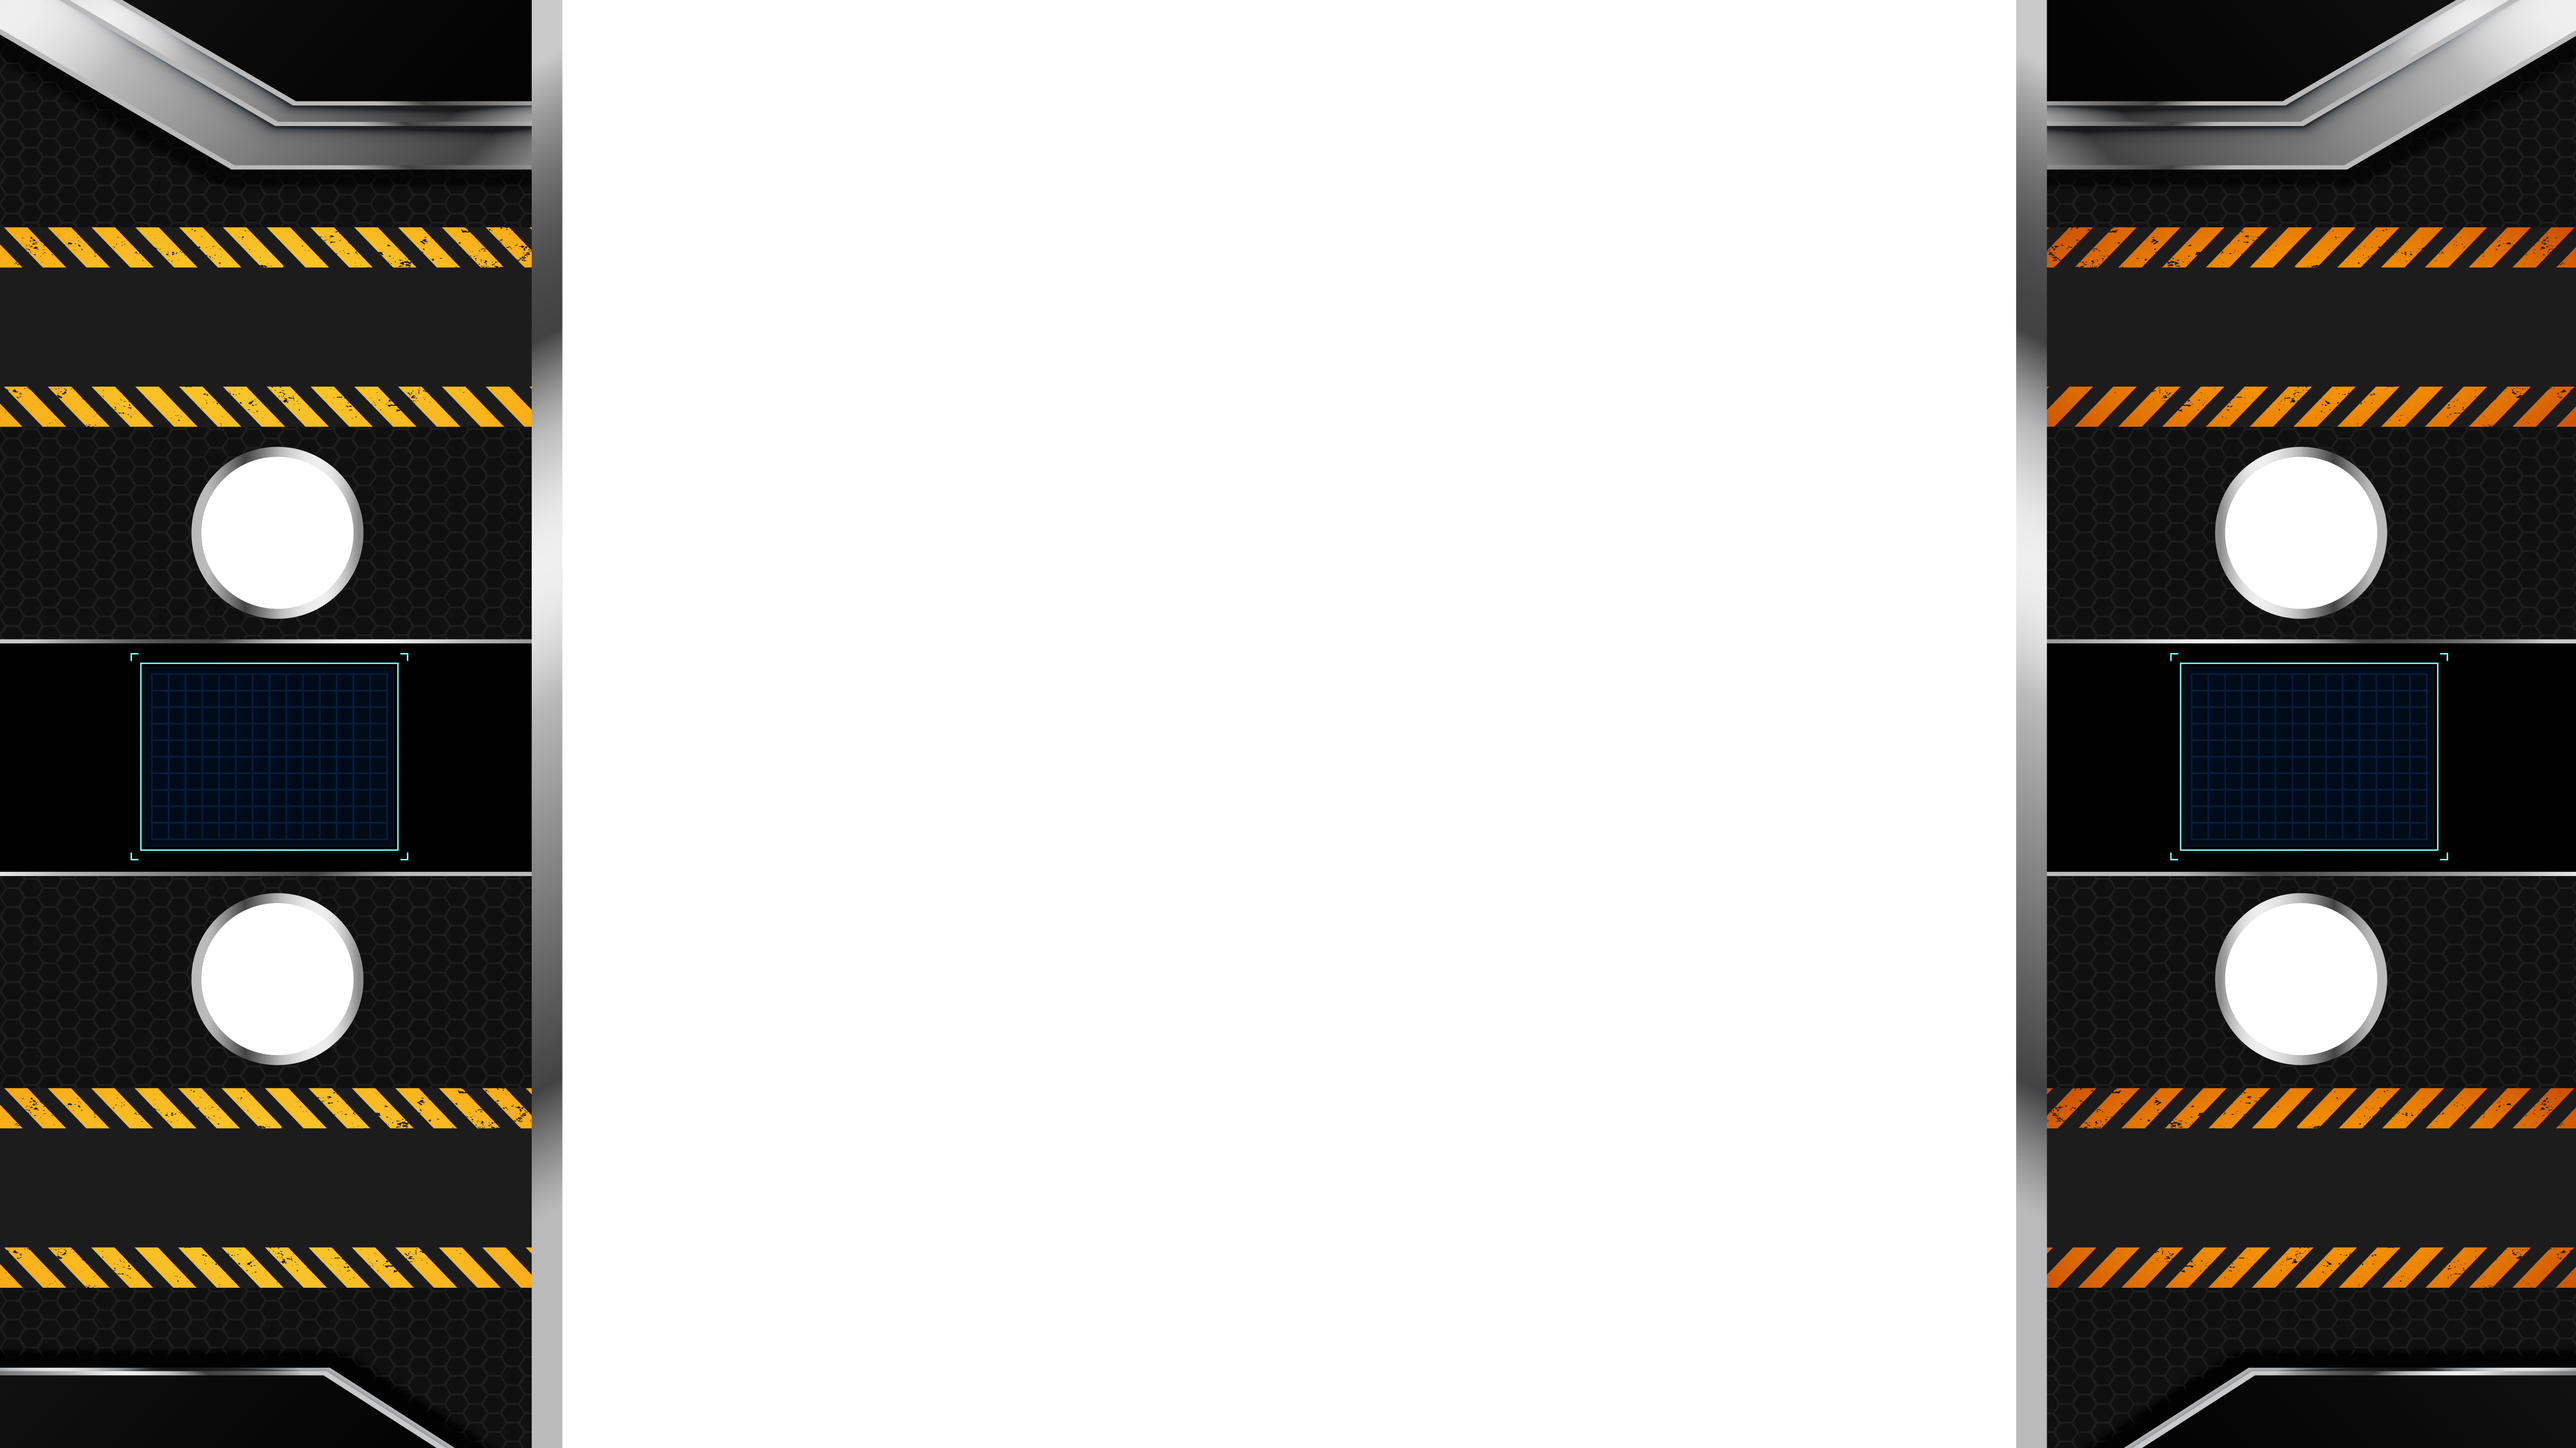
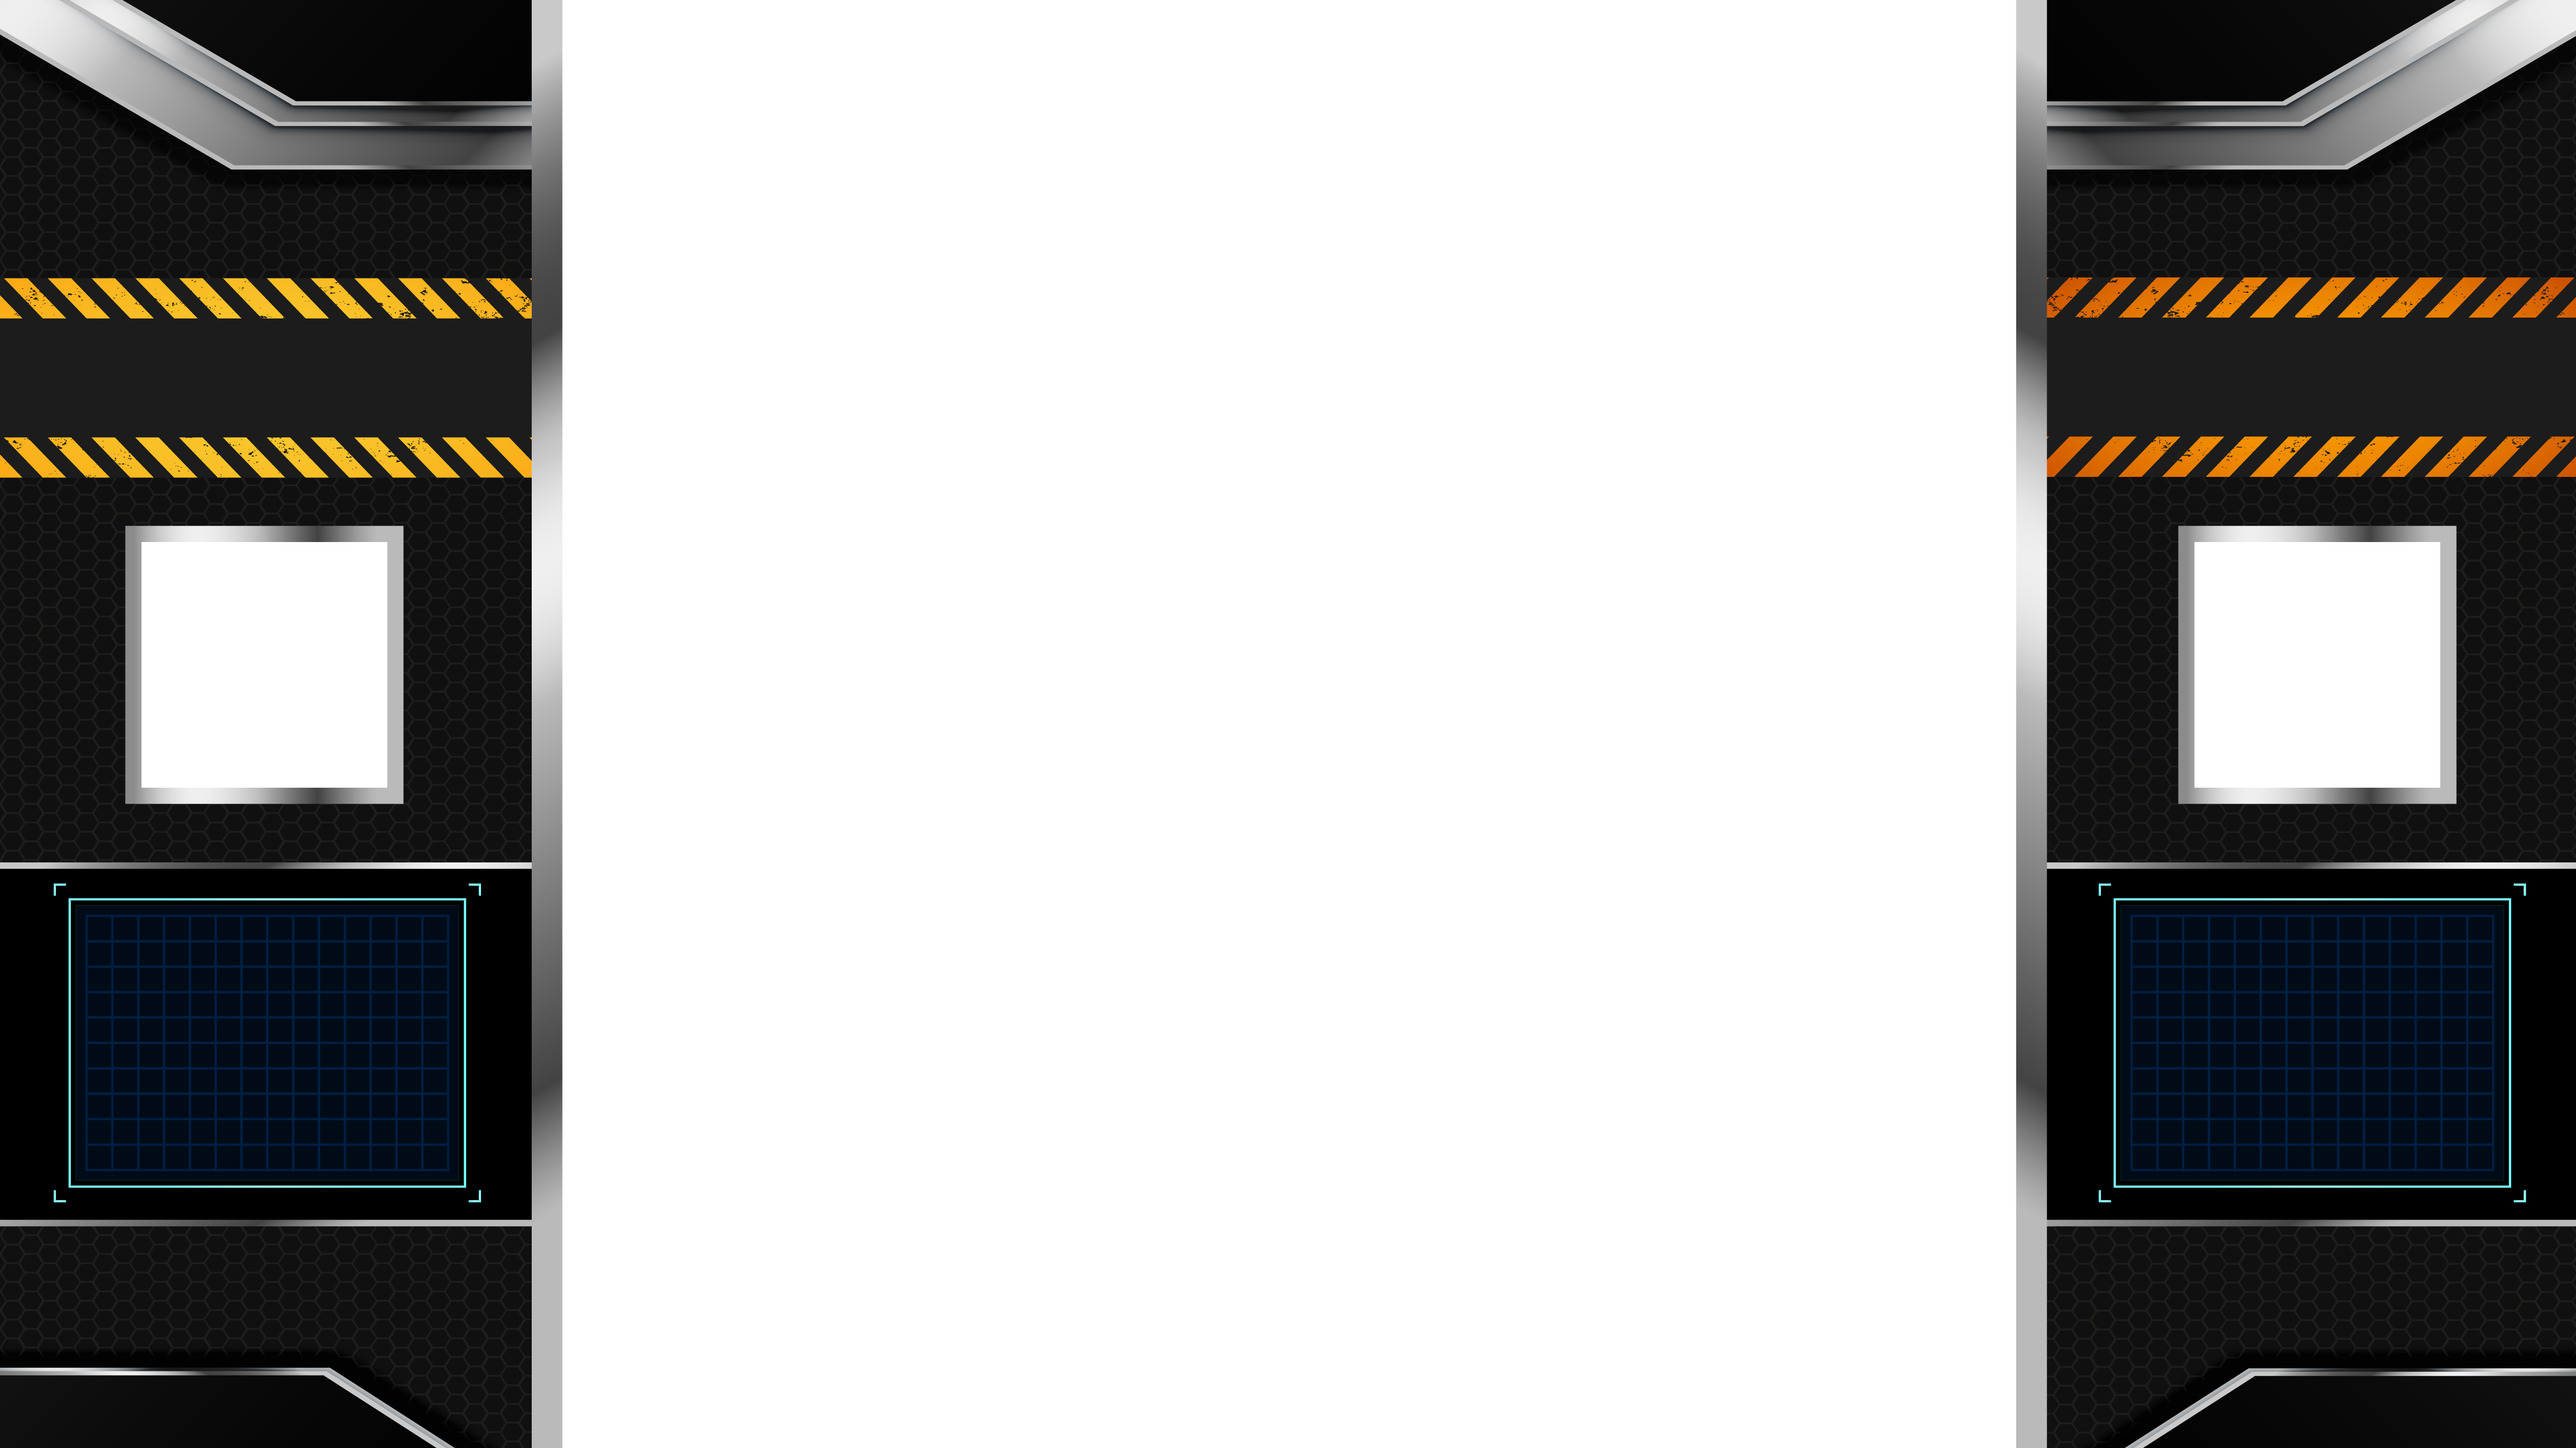
background properties

diff --git a/src/main/java/com/codingame/game/Constants.java b/src/main/java/com/codingame/game/Constants.java
@@ -1,5 +1,11 @@
 package com.codingame.game;
 
+import com.codingame.game.map.Point;
+import com.codingame.game.map.background.BackgroundProperty;
+import com.codingame.game.map.background.PlayerProperties;
+import com.codingame.game.map.background.Square;
+import java.util.ArrayList;
+
 public final class Constants {
 
     public static final String ROBOT1A = "robot-01-t.png";
@@ -15,7 +21,63 @@ public final class Constants {
     public static final int MAP_WIDTH_LEVEL234 = 24;
     public static final int MAP_HEIGHT_LEVEL234 = 19;
 
-    private Constants(){
+
+    public static final BackgroundProperty BG_1 = BackgroundProperty.of(
+        Square.of(Point.of(186, 1908), Point.of(916, 2416)),
+        Square.of(Point.of(4220, 1908), Point.of(5153, 2416)),
+        new ArrayList<>(),
+        5334,
+        3000
+    );
+
+    public static final BackgroundProperty BG_2 = BackgroundProperty.of(
+        Square.of(Point.of(114, 1386), Point.of(565, 1633)),
+        Square.of(Point.of(3537, 1386), Point.of(3888, 1633)),
+        new ArrayList<>(),
+        4000,
+        2250
+    );
+
+    public static final BackgroundProperty BG_3 = BackgroundProperty.of(
+        Square.of(Point.of(113, 1056), Point.of(465, 1305)),
+        Square.of(Point.of(3537, 1056), Point.of(3888, 1305)),
+        new ArrayList<>(),
+        4000,
+        2250
+    );
+
+    static {
+        BG_1.getPlayerProperties().add(PlayerProperties.of(
+            Square.of(Point.of(293, 1023), Point.of(800, 1631)),
+            Square.of(Point.of(0, 662), Point.of(1100, 906))));
+        BG_1.getPlayerProperties().add(PlayerProperties.of(
+            Square.of(Point.of(4544, 1023), Point.of(5051, 1631)),
+            Square.of(Point.of(4240, 662), Point.of(5334, 906))));
+
+
+        BG_2.getPlayerProperties().add(PlayerProperties.of(
+            Square.of(Point.of(132, 898), Point.of(440, 1205)),
+            Square.of(Point.of(0, 536), Point.of(564, 719))));
+        BG_2.getPlayerProperties().add(PlayerProperties.of(
+            Square.of(Point.of(3558, 898), Point.of(3866, 1205)),
+            Square.of(Point.of(3430, 536), Point.of(4000, 719))));
+
+
+        BG_3.getPlayerProperties().add(PlayerProperties.of(
+            Square.of(Point.of(166, 713), Point.of(403, 950)),
+            Square.of(Point.of(0, 420), Point.of(564, 602))));
+        BG_3.getPlayerProperties().add(PlayerProperties.of(
+            Square.of(Point.of(166, 1407), Point.of(403, 1644)),
+            Square.of(Point.of(0, 1759), Point.of(564, 1943))));
+        BG_3.getPlayerProperties().add(PlayerProperties.of(
+            Square.of(Point.of(3596, 713), Point.of(3833, 950)),
+            Square.of(Point.of(3429, 420), Point.of(4000, 602))));
+        BG_3.getPlayerProperties().add(PlayerProperties.of(
+            Square.of(Point.of(3596, 1407), Point.of(3833, 1644)),
+            Square.of(Point.of(3429, 1759), Point.of(4000, 1943))));
+    }
+
+    private Constants() {
 
     }
 }

diff --git a/src/main/java/com/codingame/game/map/background/BackgroundProperty.java b/src/main/java/com/codingame/game/map/background/BackgroundProperty.java
@@ -1,0 +1,44 @@
+package com.codingame.game.map.background;
+
+import java.util.List;
+
+public class BackgroundProperty {
+
+    private final Square teamOneScore;
+    private final Square teamTwoScore;
+    private final List<PlayerProperties> playerProperties;
+    private final int width;
+    private final int height;
+
+    public BackgroundProperty(Square teamOneScore,
+        Square teamTwoScore,
+        List<PlayerProperties> playerProperties,
+        int width,
+        int height) {
+        this.teamOneScore = teamOneScore;
+        this.teamTwoScore = teamTwoScore;
+        this.playerProperties = playerProperties;
+        this.width = width;
+        this.height = height;
+    }
+
+    public static BackgroundProperty of(Square teamOneScore,
+        Square teamTwoScore,
+        List<PlayerProperties> playerProperties,
+        int width,
+        int height) {
+        return new BackgroundProperty(teamOneScore, teamTwoScore, playerProperties, width, height);
+    }
+
+    public Square getTeamOneScore() {
+        return teamOneScore;
+    }
+
+    public Square getTeamTwoScore() {
+        return teamTwoScore;
+    }
+
+    public List<PlayerProperties> getPlayerProperties() {
+        return playerProperties;
+    }
+}

diff --git a/src/main/java/com/codingame/game/map/background/Square.java b/src/main/java/com/codingame/game/map/background/Square.java
@@ -1,0 +1,46 @@
+package com.codingame.game.map.background;
+
+import com.codingame.game.map.Point;
+
+public class Square {
+
+    private final int xMin;
+    private final int yMin;
+    private final int xMax;
+    private final int yMax;
+    private final int size;
+
+    public Square(Point upLeft, Point downRight)
+    {
+        xMin = upLeft.getX();
+        yMin = upLeft.getY();
+        xMax = downRight.getX();
+        yMax = downRight.getY();
+        size = xMax - xMin;
+    }
+
+    public int getXMin() {
+        return xMin;
+    }
+
+    public int getYMin() {
+        return yMin;
+    }
+
+    public int getXMax() {
+        return xMax;
+    }
+
+    public int getYMax() {
+        return yMax;
+    }
+
+    public int getSize() {
+        return size;
+    }
+
+    public static Square of(Point upLeft, Point downRight)
+    {
+        return new Square(upLeft, downRight);
+    }
+}

diff --git a/src/main/java/com/codingame/game/map/background/PlayerProperties.java b/src/main/java/com/codingame/game/map/background/PlayerProperties.java
@@ -1,0 +1,24 @@
+package com.codingame.game.map.background;
+
+public class PlayerProperties {
+
+    private final Square avatar;
+    private final Square name;
+
+    public PlayerProperties(Square avatar, Square name) {
+        this.avatar = avatar;
+        this.name = name;
+    }
+
+    public static PlayerProperties of(Square avatar, Square name) {
+        return new PlayerProperties(avatar, name);
+    }
+
+    public Square getAvatar() {
+        return avatar;
+    }
+
+    public Square getName() {
+        return name;
+    }
+}

diff --git a/src/test/java/Main.java b/src/test/java/Main.java
@@ -8,9 +8,9 @@ public class Main {
         MultiplayerGameRunner gameRunner = new MultiplayerGameRunner();
         gameRunner.addAgent(Player1.class, "Bob");
         gameRunner.addAgent(Player1.class, "Alice");
-//        gameRunner.addAgent(Player1.class, "Toto");
-//        gameRunner.addAgent(Player1.class, "Titi");
-        gameRunner.setLeagueLevel(1);
+        gameRunner.addAgent(Player1.class, "Toto");
+        gameRunner.addAgent(Player1.class, "Titi");
+        gameRunner.setLeagueLevel(4);
         gameRunner.start();
     }
 }
